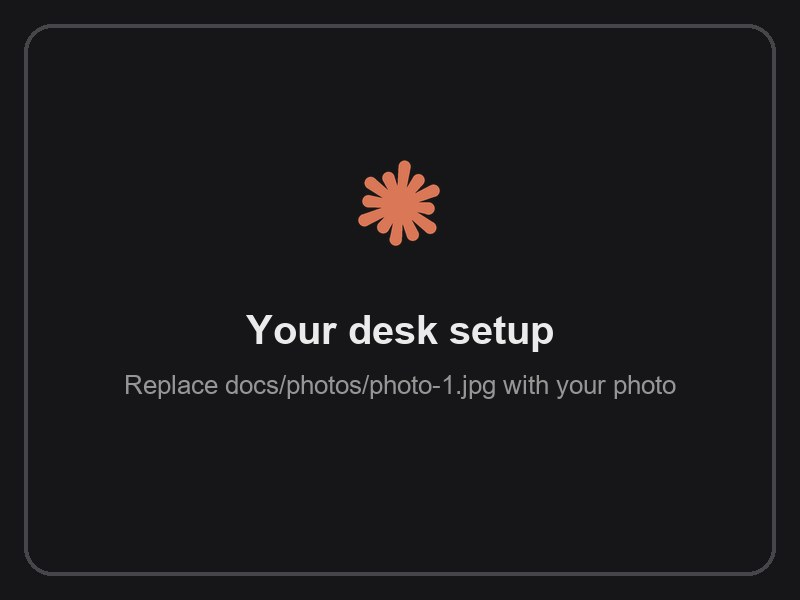
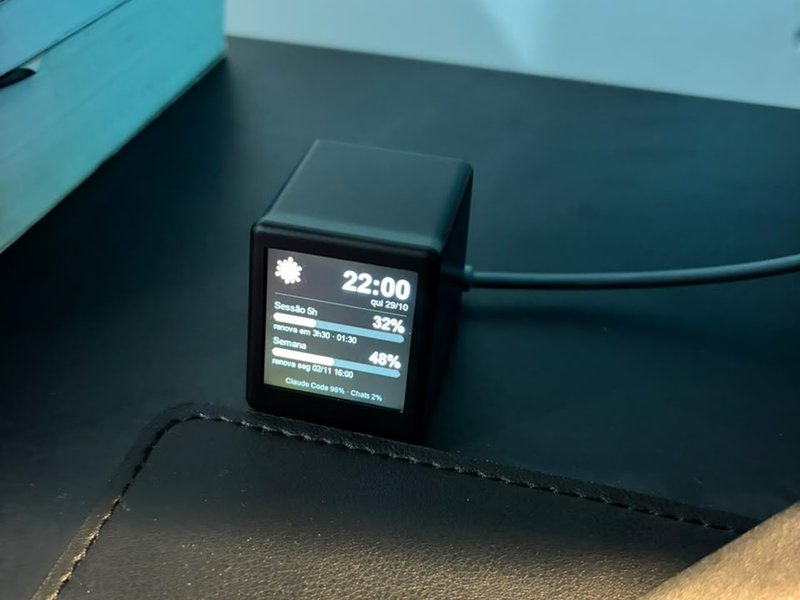
Replace placeholder photos with the real display on a desk

diff --git a/README.md b/README.md
@@ -42,7 +42,7 @@ See how much of your 5-hour session and weekly limit you have left at a glance, 
   <tr>
     <td><img src="docs/photos/photo-1.jpg" width="260" alt="The panel on a desk"></td>
     <td><img src="docs/photos/photo-2.jpg" width="260" alt="Close-up of the panel"></td>
-    <td><img src="docs/photos/photo-3.jpg" width="260" alt="The display next to a keyboard"></td>
+    <td><img src="docs/photos/photo-3.jpg" width="260" alt="The display next to a stack of books"></td>
   </tr>
 </table>
 

diff --git a/README.pt-BR.md b/README.pt-BR.md
@@ -42,7 +42,7 @@ Veja quanto resta da sessão de 5 horas e do limite semanal com uma olhada, sem 
   <tr>
     <td><img src="docs/photos/photo-1.jpg" width="260" alt="O painel numa mesa"></td>
     <td><img src="docs/photos/photo-2.jpg" width="260" alt="O painel de perto"></td>
-    <td><img src="docs/photos/photo-3.jpg" width="260" alt="O display ao lado do teclado"></td>
+    <td><img src="docs/photos/photo-3.jpg" width="260" alt="O display ao lado de uma pilha de livros"></td>
   </tr>
 </table>
 
